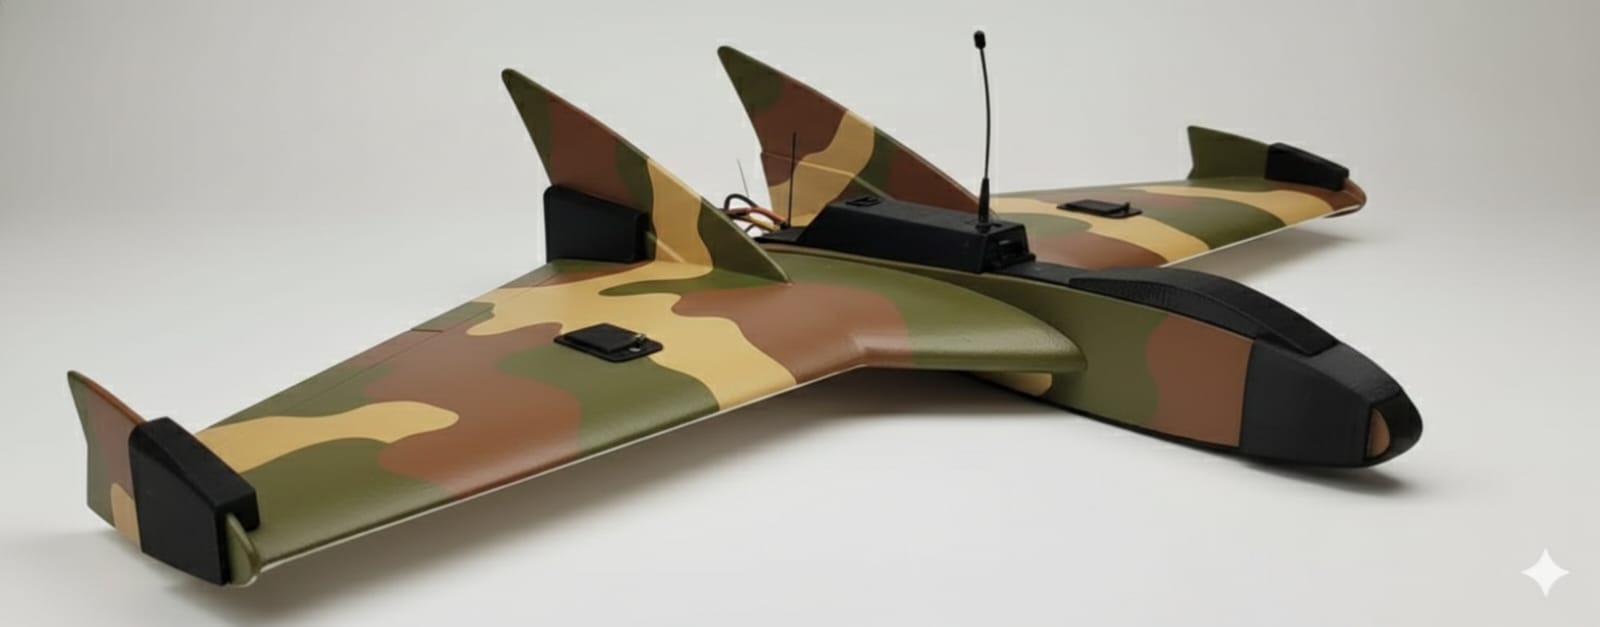
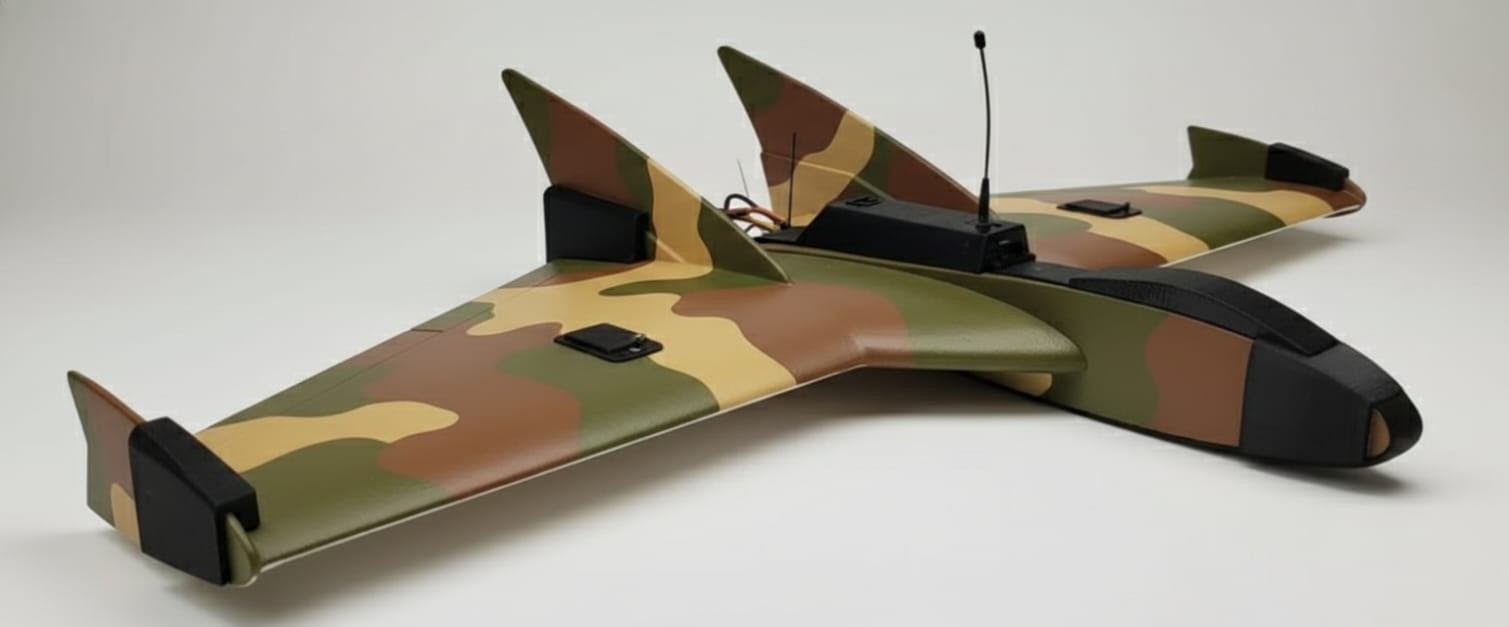
careers what we stand for card colors fix

diff --git a/app/products/productData.js b/app/products/productData.js
@@ -1,10 +1,86 @@
-export const products = {
+export const products = {
+    'raven': {
+        name: "RAVEN",
+        tagline: "UAV SIMULATOR · TRAINER SERIES",
+        brand: "MAS",
+        category: "SIMULATOR",
+        description: "Plug-and-play UAV simulation system for structured multi-platform drone training.",
+        longDescription: "RAVEN is a plug-and-play UAV simulation system designed for structured multi-platform drone training. The system supports FPV, rotary, and fixed-wing mission environments with realistic terrain rendering and physics-based simulation, enabling risk-free mastery of complex aerial maneuvers.",
+        heroSpecs: [
+            { label: "Display", value: "27\" Curved" },
+            { label: "Computing", value: "14th Gen i5" },
+            { label: "Graphics", value: "RTX 3050" },
+            { label: "System", value: "Plug-and-Play" }
+        ],
+        performanceMetrics: [
+            { label: "PHYSICS_ACCURACY", value: 98, unit: "%" },
+            { label: "LATENCY", value: 2, unit: "ms" },
+            { label: "RENDER_QUALITY", value: 95, unit: "%" },
+            { label: "TRAINING_ROI", value: 100, unit: "%" }
+        ],
+        featureCards: [
+            {
+                title: "Immersive Visuals",
+                description: "27-inch Curved High-Refresh Display for tactical environmental awareness and depth perception."
+            },
+            {
+                title: "High-Core Performance",
+                description: "Powered by 14th Gen Intel i5 and NVIDIA RTX 3050 for lag-free, high-fidelity physics."
+            },
+            {
+                title: "Complete Training Kit",
+                description: "Integrated FPV goggles, radio transmitter, and built-in UPS backup for uninterrupted sessions."
+            }
+        ],
+        variants: [
+            { 
+                id: "raven-trainer",
+                variant: "RAVEN Simulator System", 
+                type: "Professional UAV Trainer", 
+                description: "The complete simulation solution for modern UAV operators.",
+                keyHighlights: [
+                    "27-inch Curved High-Refresh Display",
+                    "Intel i5 (14th Gen) Performance Core",
+                    "NVIDIA RTX 3050 (8GB Graphics)",
+                    "16GB RAM | 1TB SSD",
+                    "Integrated FPV Goggles & Radio Transmitter",
+                    "Built-in UPS Backup",
+                    "Pre-Loaded Licensed Simulation Software"
+                ],
+                capabilities: ["Multi-Platform Sim", "FPV Mastery", "Mission Planning"],
+                applications: ["New Pilot Training", "Mission Profile Testing", "Advanced Acro Drills"],
+                performance: { },
+                gallery: ["/partners/r1.png", "/partners/r2.jpeg", "/partners/r3.jpeg"]
+            }
+        ],
+        specs: [
+            { label: "Display", value: "27\" Curved Refresh" },
+            { label: "Controller", value: "Integrated Radio" },
+            { label: "Backup", value: "Built-in UPS" },
+            { label: "Software", value: "Multi-UAV Licensed" }
+        ],
+        features: [
+            "Realistic Physics Engine",
+            "Support for FPV/Fixed/Rotary",
+            "High-Fidelity Terrain Rendering",
+            "Plug-and-Play Setup",
+            "Comprehensive Mission Log"
+        ],
+        imageClass: "product-image-sim",
+        nickname: "MAESTRO",
+        galleryImages: [
+            "/partners/r1.png",
+            "/partners/r2.jpeg",
+            "/partners/r3.jpeg"
+        ],
+        whatsappNumber: "919494949698"
+    },
     'bard': {
-        name: "B.A.R.D. V2.0",
+        name: "B.A.R.D.",
         tagline: "GROUP 2 UAS · TACTICAL AUTONOMY",
         brand: "MAS",
         category: "ISR",
-        description: "BARD V2.0 is a compact autonomous quadcopter designed for surveillance, perimeter monitoring, and reconnaissance operations. The platform integrates stabilized electrooptical imaging with real-time transmission capability.",
+        description: "Autonomous quadcopter for day/night surveillance, ISR, and precision reconnaissance with multi-payload support.",
         longDescription: "BARD V2.0 is a mission-critical Autonomous Aerial System engineered for persistent battlefield intelligence. The platform supports multiple variants ranging from standard day surveillance to advanced thermal imaging with Laser Range Finding (LRF) and specialized payload release capabilities.",
         heroSpecs: [
             { label: "Endurance", value: "60m" },
@@ -169,11 +245,11 @@ export const products = {
         whatsappNumber: "919494949698"
     },
     'horizon-vtol': {
-        name: "HORIZON 120 – VTOL",
+        name: "HORIZON – VTOL",
         tagline: "FIXED WING VTOL · TRAINER & ISR",
         brand: "MAS",
         category: "ISR",
-        description: "VTOL Fixed-Wing platform combining vertical takeoff with efficient cruise for extended reconnaissance.",
+        description: "VTOL fixed-wing platform combining vertical takeoff with efficient cruise for extended reconnaissance.",
         longDescription: "HORIZON 120 VTOL combines vertical takeoff capability with efficient fixed-wing cruise performance. Designed for training and ISR applications, the platform supports autonomous waypoint navigation and stabilized observation. It is the premier choice for long-endurance missions without the need for runways.",
         heroSpecs: [
             { label: "Endurance", value: "40m" },
@@ -214,7 +290,7 @@ export const products = {
                     "3-Axis Stabilized Day EO Gimbal",
                     "Wingspan: 1200 mm",
                     "Lightweight Composite Airframe",
-                    "Portable Ground Control Station (7” Display)"
+                    "Portable Ground Control Station (7-inch Display)"
                 ],
                 capabilities: ["Vertical Takeoff", "Fixed-Wing Cruise", "Autonomous Navigation"],
                 applications: ["Daytime ISR", "UAV Pilot Training", "Perimeter Surveillance"],
@@ -262,11 +338,11 @@ export const products = {
         whatsappNumber: "919494949698"
     },
     'horizon-fpv': {
-        name: "HORIZON 160 FPV",
+        name: "HORIZON FPV",
         tagline: "FIXED WING TRAINER · FPV SERIES",
         brand: "MAS",
         category: "TRAINER",
-        description: "Hand-launched delta-wing trainer for realistic UAV flight and FPV mission familiarization.",
+        description: "Hand-launched delta-wing fixed-wing trainer for FPV pilot skill development and mission familiarization.",
         longDescription: "Horizon 160 FPV is a lightweight delta-wing fixed-wing trainer designed for realistic UAV flight training and FPV mission familiarization. The hand-launch configuration enables rapid deployment without runway dependency, supporting operator skill development in navigation, recovery, and mission execution.",
         heroSpecs: [
             { label: "Endurance", value: "45m" },
@@ -338,11 +414,11 @@ export const products = {
         whatsappNumber: "919494949698"
     },
     'stinger': {
-        name: "STINGER SERIES",
+        name: "STINGER",
         tagline: "TACTICAL TRAINER · FPV PLATFORM",
         brand: "MAS",
         category: "TACTICAL",
-        description: "High-agility FPV tactical training platforms optimized for speed, precision, and mission rehearsal.",
+        description: "High-agility FPV tactical platforms engineered for speed, precision intercept, and mission rehearsal.",
         longDescription: "The STINGER family represents the peak of FPV tactical training systems. Engineered for high-speed maneuvering and precision control, these platforms allow pilots to rehearse complex mission profiles in a cost-effective, high-performance architecture ranging from 7 to 15 inches.",
         heroSpecs: [
             { label: "Max Endurance", value: "35m" },
@@ -373,11 +449,11 @@ export const products = {
         variants: [
             { 
                 id: "stinger-7",
-                variant: "STINGER 7” – Day Variant", 
+                variant: "STINGER 7-inch – Day Variant", 
                 type: "Compact FPV Tactical Trainer", 
                 description: "High-agility platform for precision maneuver drills and reflex-based pilot development.",
                 keyHighlights: [
-                    "7” Frame Configuration",
+                    "7-inch Frame Configuration",
                     "Endurance: Up to 20–22 Minutes",
                     "Operational Range: Up to 1–2 KM",
                     "Top Speed: 22–24 m/s",
@@ -394,11 +470,11 @@ export const products = {
             },
             { 
                 id: "stinger-10",
-                variant: "STINGER 10” – Day/Night Variant", 
+                variant: "STINGER 10-inch – Day/Night Variant", 
                 type: "Extended-Endurance FPV Platform", 
                 description: "Designed for advanced FPV training and extended-range tactical simulations.",
                 keyHighlights: [
-                    "10” Frame Configuration",
+                    "10-inch Frame Configuration",
                     "Endurance: Up to 25–30 Minutes",
                     "Operational Range: Up to 3–4 KM",
                     "HD Day + Thermal Imaging",
@@ -415,11 +491,11 @@ export const products = {
             },
             { 
                 id: "stinger-15",
-                variant: "STINGER 15” – Day/Night Gimbal Variant", 
+                variant: "STINGER 15-inch – Day/Night Gimbal Variant", 
                 type: "Heavy-Lift FPV Tactical Platform", 
                 description: "High-endurance platform engineered for advanced operational training and heavier payload integration.",
                 keyHighlights: [
-                    "15” Reinforced Frame",
+                    "15-inch Reinforced Frame",
                     "Endurance: Up to 30–35 Minutes",
                     "Operational Range: Up to 4–5 KM",
                     "HD Day + Thermal Imaging",
@@ -460,7 +536,7 @@ export const products = {
         brand: "MAS",
         category: "TRAINER",
         description: "Compact quadcopter with integrated propeller guards for safe indoor and confined-area pilot training.",
-        longDescription: "AOT (Air Observer Trainer) is a compact 7” quadcopter designed for structured FPV pilot training and close-proximity maneuver drills. The integrated propeller guard system enhances safety during indoor and confined-area operations, making it ideal for foundational and intermediate-level operator development.",
+        longDescription: "AOT (Air Observer Trainer) is a compact 7-inch quadcopter designed for structured FPV pilot training and close-proximity maneuver drills. The integrated propeller guard system enhances safety during indoor and confined-area operations, making it ideal for foundational and intermediate-level operator development.",
         heroSpecs: [
             { label: "Endurance", value: "30m" },
             { label: "Range", value: "2km" },
@@ -490,11 +566,11 @@ export const products = {
         variants: [
             { 
                 id: "aot-7",
-                variant: "A.O.T. 7” Variant", 
+                variant: "A.O.T. 7-inch Variant", 
                 type: "Prop-Guarded Trainer", 
-                description: "7” quadcopter designed for close-proximity maneuver training.",
+                description: "7-inch quadcopter designed for close-proximity maneuver training.",
                 keyHighlights: [
-                    "7” Rugged Frame with Prop Guard",
+                    "7-inch Rugged Frame with Prop Guard",
                     "Endurance: Up to 30 Minutes",
                     "Operational Range: Up to 1–2 KM",
                     "Cruise Speed: 10–12 m/s",
@@ -526,82 +602,6 @@ export const products = {
         nickname: "CADET",
         galleryImages: [
             "/partners/aot.png"
-        ],
-        whatsappNumber: "919494949698"
-    },
-    'raven': {
-        name: "RAVEN UAV Simulator",
-        tagline: "UAV SIMULATOR · TRAINER SERIES",
-        brand: "MAS",
-        category: "SIMULATOR",
-        description: "Plug-and-play UAV simulation system for structured multi-platform drone training.",
-        longDescription: "RAVEN is a plug-and-play UAV simulation system designed for structured multi-platform drone training. The system supports FPV, rotary, and fixed-wing mission environments with realistic terrain rendering and physics-based simulation, enabling risk-free mastery of complex aerial maneuvers.",
-        heroSpecs: [
-            { label: "Display", value: "27\" Curved" },
-            { label: "Computing", value: "14th Gen i5" },
-            { label: "Graphics", value: "RTX 3050" },
-            { label: "System", value: "Plug-and-Play" }
-        ],
-        performanceMetrics: [
-            { label: "PHYSICS_ACCURACY", value: 98, unit: "%" },
-            { label: "LATENCY", value: 2, unit: "ms" },
-            { label: "RENDER_QUALITY", value: 95, unit: "%" },
-            { label: "TRAINING_ROI", value: 100, unit: "%" }
-        ],
-        featureCards: [
-            {
-                title: "Immersive Visuals",
-                description: "27” Curved High-Refresh Display for tactical environmental awareness and depth perception."
-            },
-            {
-                title: "High-Core Performance",
-                description: "Powered by 14th Gen Intel i5 and NVIDIA RTX 3050 for lag-free, high-fidelity physics."
-            },
-            {
-                title: "Complete Training Kit",
-                description: "Integrated FPV goggles, radio transmitter, and built-in UPS backup for uninterrupted sessions."
-            }
-        ],
-        variants: [
-            { 
-                id: "raven-trainer",
-                variant: "RAVEN Simulator System", 
-                type: "Professional UAV Trainer", 
-                description: "The complete simulation solution for modern UAV operators.",
-                keyHighlights: [
-                    "27” Curved High-Refresh Display",
-                    "Intel i5 (14th Gen) Performance Core",
-                    "NVIDIA RTX 3050 (8GB Graphics)",
-                    "16GB RAM | 1TB SSD",
-                    "Integrated FPV Goggles & Radio Transmitter",
-                    "Built-in UPS Backup",
-                    "Pre-Loaded Licensed Simulation Software"
-                ],
-                capabilities: ["Multi-Platform Sim", "FPV Mastery", "Mission Planning"],
-                applications: ["New Pilot Training", "Mission Profile Testing", "Advanced Acro Drills"],
-                performance: { },
-                gallery: ["/partners/r1.png", "/partners/r2.jpeg", "/partners/r3.jpeg"]
-            }
-        ],
-        specs: [
-            { label: "Display", value: "27\" Curved Refresh" },
-            { label: "Controller", value: "Integrated Radio" },
-            { label: "Backup", value: "Built-in UPS" },
-            { label: "Software", value: "Multi-UAV Licensed" }
-        ],
-        features: [
-            "Realistic Physics Engine",
-            "Support for FPV/Fixed/Rotary",
-            "High-Fidelity Terrain Rendering",
-            "Plug-and-Play Setup",
-            "Comprehensive Mission Log"
-        ],
-        imageClass: "product-image-sim",
-        nickname: "MAESTRO",
-        galleryImages: [
-            "/partners/r1.png",
-            "/partners/r2.jpeg",
-            "/partners/r3.jpeg"
         ],
         whatsappNumber: "919494949698"
     }

diff --git a/app/products/page.tsx b/app/products/page.tsx
@@ -178,24 +178,7 @@ export default function ProductsPage() {
                                         </div>
 
                                         <div className="product-content" style={{ padding: '2rem' }}>
-                                            <span style={{ 
-                                                display: 'block', 
-                                                fontFamily: 'var(--font-mono)', 
-                                                fontSize: '0.7rem', 
-                                                color: 'var(--accent-primary)', 
-                                                marginBottom: '0.5rem',
-                                                letterSpacing: '2px'
-                                            }}>{product.tagline}</span>
                                             <h3 style={{ fontSize: '1.5rem', marginBottom: '1rem' }}>{product.name}</h3>
-                                            <p style={{ 
-                                                color: 'var(--text-secondary)', 
-                                                fontSize: '0.9rem', 
-                                                marginBottom: '2rem',
-                                                lineHeight: '1.6',
-                                                minHeight: '3em'
-                                            }}>
-                                                {product.description}
-                                            </p>
                                             
                                             <div style={{ display: 'grid', gridTemplateColumns: '1fr 1fr', gap: '1rem', marginBottom: '2rem' }}>
                                                 {product.heroSpecs?.slice(0, 2).map((spec, i) => (
@@ -216,7 +199,7 @@ export default function ProductsPage() {
                                                 textTransform: 'uppercase',
                                                 letterSpacing: '1px'
                                             }}>
-                                                EXPLORE SYSTEM <span style={{ fontSize: '1.2rem' }}>&rarr;</span>
+                                                EXPLORE PRODUCT <span style={{ fontSize: '1.2rem' }}>&rarr;</span>
                                             </Link>
                                         </div>
                                     </div>

diff --git a/app/mas/page.tsx b/app/mas/page.tsx
@@ -123,7 +123,7 @@ export default function Mas() {
                                 },
                                 {
                                     id: 'bard',
-                                    name: 'BARD Family',
+                                    name: 'BARD',
                                     nickname: 'SENTINEL',
                                     type: 'GROUP 2 UAS',
                                     tagline: 'TACTICAL ISR PLATFORM',
@@ -153,7 +153,7 @@ export default function Mas() {
                                 },
                                 {
                                     id: 'stinger',
-                                    name: 'STINGER Family',
+                                    name: 'STINGER',
                                     nickname: 'STRIKE',
                                     type: 'KINETIC INTERCEPT',
                                     tagline: 'LOITERING MUNITION',
@@ -163,7 +163,7 @@ export default function Mas() {
                                 },
                                 {
                                     id: 'aot',
-                                    name: 'AOT (7 Inch)',
+                                    name: 'AOT',
                                     nickname: 'CADET',
                                     type: 'PILOT TRAINING',
                                     tagline: 'ATTRITABLE TRAINER SYSTEM',
@@ -203,9 +203,7 @@ export default function Mas() {
                                             />
                                         </div>
                                         <div className="product-content">
-                                            <span className="product-tagline">{product.tagline}</span>
                                             <h3>{product.name}</h3>
-                                            <p>{product.desc}</p>
                                             <Link href={product.link} className="btn-text">View Specifications &rarr;</Link>
                                         </div>
                                     </div>

diff --git a/app/careers/page.tsx b/app/careers/page.tsx
@@ -227,7 +227,7 @@ export default function CareersPage() {
                                     padding: 'clamp(2rem, 4vw, 3rem)',
                                     borderRight: i < 3 ? '1px solid var(--border-color)' : 'none',
                                     cursor: 'pointer',
-                                    background: activePillar === i ? '#000' : '#fff',
+                                    background: activePillar === i ? 'var(--accent-primary)' : '#fff',
                                     transition: 'background 0.5s ease',
                                     position: 'relative',
                                     overflow: 'hidden',
@@ -238,7 +238,7 @@ export default function CareersPage() {
                                     position: 'absolute', top: 0, left: 0,
                                     width: activePillar === i ? '100%' : '0%',
                                     height: '3px',
-                                    background: 'var(--accent-primary)',
+                                    background: activePillar === i ? '#fff' : 'var(--accent-primary)',
                                     transition: 'width 3s linear',
                                 }} />
                                 <div style={{